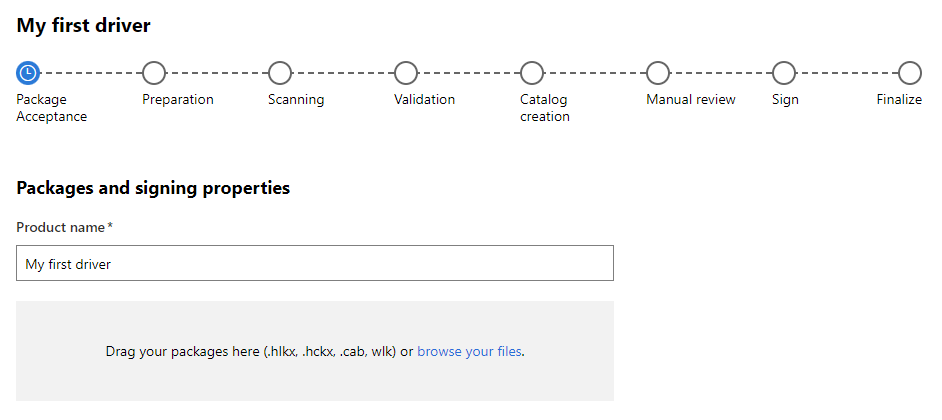
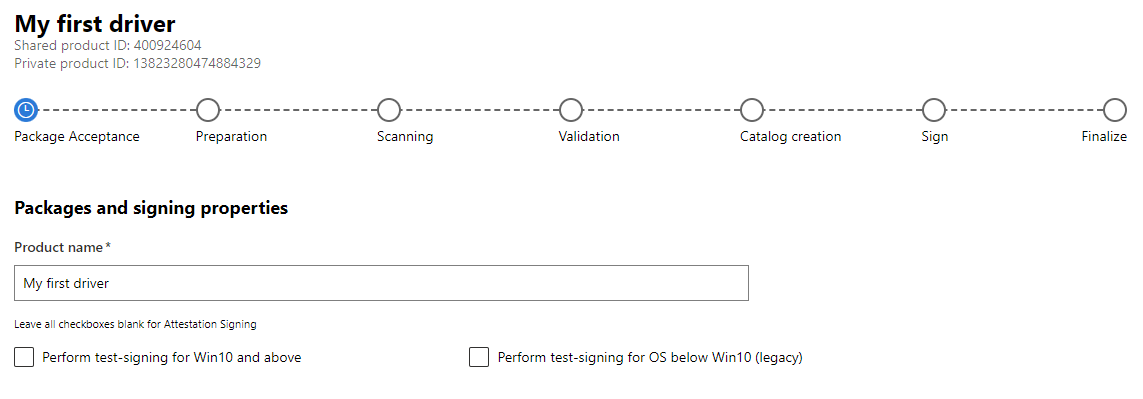
edits

diff --git a/windows-driver-docs-pr/dashboard/create-a-new-hardware-submission.md b/windows-driver-docs-pr/dashboard/create-a-new-hardware-submission.md
@@ -7,11 +7,11 @@ ms.topic: article
 
 # Create a new hardware submission
 
-To prepare your hardware for the Windows Hardware Compatibility Program for Windows 10 (or the separate certification program for previous operating systems), you must create and submit an **.hlkx** file (for Windows 10) or **.hckx** file (for previous operating systems). This file is created using the Windows HLK Studio (or Windows HCK Studio, for previous operating systems) and contains all of the test results, drivers, and symbols for your product. Submitting this file allows the dashboard to review your test results, evaluate any drivers tested, and return Microsoft digitally signed catalog files.
+This article describes how to create a new hardware submission in the Partner Center Hardware dashboard.
 
 ## Prerequisites
 
-* Make sure your dashboard account is registered for the Windows Hardware Developer Program. For information on how to register, see [How to register for the Windows Hardware Developer Program](register-for-the-hardware-program.md).
+* Make sure your [dashboard account](https://partner.microsoft.com/dashboard) is registered for the Windows Hardware Developer Program. For information on how to register, see [How to register for the Windows Hardware Developer Program](register-for-the-hardware-program.md).
 
 * For drivers compatible with Windows 10 and above, you'll need to have a **.hlkx** file that's been digitally signed. For information about creating and digitally signing an  **.hlkx** file, see the [Windows HLK Getting Started Guide](/windows-hardware/test/hlk/getstarted/windows-hlk-getting-started).
 
@@ -30,31 +30,34 @@ To prepare your hardware for the Windows Hardware Compatibility Program for Wind
 >[!NOTE]
 >If you share your driver with another company, they will see this name.
 
-1. Either drag and drop, or browse to the **.hlkx/.hckx** file that you want to submit. The file will begin to upload.
+1. Either drag or browse to the **.hlkx/.hckx** file that you want to submit.
 
    :::image type="content" source="./images/create-a-new-hardware-submission/hardware-submit.png" alt-text="Screenshot that shows the new hardware submission form.":::
 
-1. Complete any questionnaires that are presented.  The portal presents any questionnaire that's required for the product type being submitted for Windows Server certification. The submission won't complete until you complete the questionnaire.
+1. If you wish to test a driver prior to release, select either **Perform test-signing for Win10 and above** or **Perform test-signing for OS below Win10 (legacy)**. Test-signed drivers are similar to drivers signed for public release, but don't require HLK testing. They're also not distributed through Windows Update, but can be downloaded from the hardware submission site. They can be installed on test machines only. For more information about test-signing driver packages, see [WHQL Test Signature Program](../install/whql-test-signature-program.md) and [How to test-sign a driver package](../install/how-to-test-sign-a-driver-package.md).
 
-1. If you wish to test a driver prior to release, you can select the checkbox labled "Perform test-signing for Win10 and above" OR "Perform test-signing for OS below Win10 (legacy)". Test-signed drivers are similar to drivers signed for public release, but do not require HLK testing. They are also not distributed through Windows Update, but can be downloaded from the hardware submission site. They can be installed on test machines only. For more information about test-signing driver packages, see [WHQL Test Signature Program](../install/whql-test-signature-program.md) and [How to test-sign a driver package](../install/how-to-test-sign-a-driver-package.md).
+1. Complete any other any questionnaires that are presented.  The portal presents any questionnaire that's required for the product type being submitted for Windows Server certification.
 
-1. Select Request Signatures as applicable. This option allows you to specify which operating system signatures (including allowable downlevel operating systems) should be included with your driver. Available certifications vary depending on your driver submission package, so there may not be any certifications listed. **Note** If you are signing a driver package for a single architecture, only include logs for the intended architecture. For example, to sign for x64 only, submit only the x64 logs.
+1. Under **Request Signatures**, select which operating system signatures (including allowable downlevel operating systems) should be included with your driver. Available certifications vary depending on your driver submission package, so there may not be any certifications listed.
 
-   :::image type="content" source="images/additionalcertifications.png" alt-text="Screenshot that shows possible certifications for a driver submission, and the finalize button.":::
+    >[!NOTE]
+    > If you're signing a driver package for a single architecture, only include logs for the intended architecture. For example, to sign for x64 only, submit only the x64 logs.
+
+    :::image type="content" source="./images/create-a-new-hardware-submission/hardware-signatures.png" alt-text="Screenshot that shows possible signatures for a driver submission, and the finalize button.":::
 
 1. In the **Certification** section, complete the following information:
 
    | Field | Description |
    |--|--|
    | Device type | Indicate if your device is:</br></br>**An internal component**, if your device is part of a system and connects inside the PC.</br></br>**An external component**, if your device is an external device (peripheral) that connects to a PC.</br></br>**Both**, if your device can be connected internally (inside a PC) and externally (peripheral). |
-   | Device metadata category | Select an icon for your device from a list of default icons based on your device category. This determines which icon appears in Devices and Printers. If your device should not appear, select "Internal device".</br></br>For information about delivering a rich experience with Windows Device Stage, see [Create a Device Metadata Experience](create-a-device-metadata-experience.md). |
+   | Device metadata category | Select an icon for your device from a list of default icons based on your device category. This determines which icon appears in Devices and Printers. If you don't want your device to appear, select "Internal device".</br></br>For information about delivering a rich experience with Windows Device Stage, see [Create a Device Metadata Experience](create-a-device-metadata-experience.md). |
    | Device metadata model ID | These GUIDs are used to validate your Device Metadata submissions to the legacy Sysdev dashboard. If provided, they must match the model IDs in your device metadata package. |
    | Announcement date | Enter the date when you want your product included on the Windows Server Catalog, the Windows Certified Product List, and the Universal Driver List. |
    | Marketing names | Enter the marketing name(s) for your submission. Marketing names allow you to provide aliases for your product. You can provide as many names as you want.|
 
    :::image type="content" source="images/drivers-certification.png" alt-text="Screenshot that shows the certification section.":::
 
-1. Select **Submit**.
+1. Select **Submit** at the bottom of the page.
 
 1. The **Distribution** section is used to publish your driver to Windows Update. For information about how to use the **Distribution** section, see [Manage driver distribution with shipping labels](manage-driver-distribution-by-submission.md).
 
@@ -64,8 +67,13 @@ To prepare your hardware for the Windows Hardware Compatibility Program for Wind
 
 1. Review the results. If your submission failed, make any necessary changes and resubmit.
 
-## Related topics
+## Next Steps
 
-- [Managing hardware submissions in the Partner Center](manage-your-hardware-submissions.md)
-- [Get drivers signed by Microsoft for multiple Windows versions](get-drivers-signed-by-microsoft-for-multiple-windows-versions.md)
-- [Driver flighting](driver-flighting.md)
+> [!div class="nextstepaction"]
+> [Managing hardware submissions in the Partner Center](manage-your-hardware-submissions.md)
+
+> [!div class="nextstepaction"]
+> [Get drivers signed by Microsoft for multiple Windows versions](get-drivers-signed-by-microsoft-for-multiple-windows-versions.md)
+
+> [!div class="nextstepaction"]
+> [Distribute your driver with Driver flighting](driver-flighting.md)
